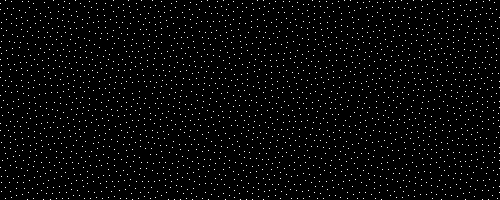
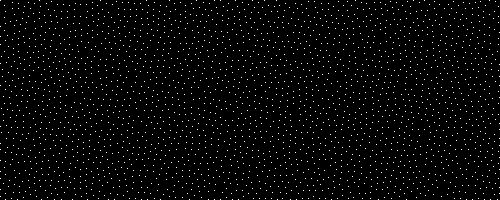
improve point density by fixing angle jitter and angle offset

diff --git a/build/fast-poisson-disk-sampling.min.js b/build/fast-poisson-disk-sampling.min.js
@@ -1,1 +1,1 @@
-(function(f){if(typeof exports==="object"&&typeof module!=="undefined"){module.exports=f()}else if(typeof define==="function"&&define.amd){define([],f)}else{var g;if(typeof window!=="undefined"){g=window}else if(typeof global!=="undefined"){g=global}else if(typeof self!=="undefined"){g=self}else{g=this}g.FastPoissonDiskSampling=f()}})((function(){var define,module,exports;return function(){function r(e,n,t){function o(i,f){if(!n[i]){if(!e[i]){var c="function"==typeof require&&require;if(!f&&c)return c(i,!0);if(u)return u(i,!0);var a=new Error("Cannot find module '"+i+"'");throw a.code="MODULE_NOT_FOUND",a}var p=n[i]={exports:{}};e[i][0].call(p.exports,(function(r){var n=e[i][1][r];return o(n||r)}),p,p.exports,r,e,n,t)}return n[i].exports}for(var u="function"==typeof require&&require,i=0;i<t.length;i++)o(t[i]);return o}return r}()({1:[function(require,module,exports){"use strict";var tinyNDArray=require("./tiny-ndarray");var epsilon=2e-14;var neighbourhood=[[0,0],[0,-1],[-1,0],[1,0],[0,1],[-1,-1],[1,-1],[-1,1],[1,1],[0,-2],[-2,0],[2,0],[0,2],[-1,-2],[1,-2],[-2,-1],[2,-1],[-2,1],[2,1],[-1,2],[1,2]];var neighbourhoodLength=neighbourhood.length;function FastPoissonDiskSampling(options,rng){this.width=options.shape[0];this.height=options.shape[1];this.radius=options.radius||options.minDistance;this.maxTries=Math.max(1,Math.ceil(options.tries||30));this.rng=rng||Math.random;this.squaredRadius=this.radius*this.radius;this.radiusPlusEpsilon=this.radius+epsilon;this.cellSize=this.radius*Math.SQRT1_2;this.angleIncrement=Math.PI*2/this.maxTries;this.angleIncrementOnSuccess=1+epsilon;this.triesIncrementOnSuccess=Math.ceil(this.angleIncrementOnSuccess/this.angleIncrement);this.processList=[];this.samplePoints=[];this.gridShape=[Math.ceil(this.width/this.cellSize),Math.ceil(this.height/this.cellSize)];this.grid=tinyNDArray(this.gridShape)}FastPoissonDiskSampling.prototype.width=null;FastPoissonDiskSampling.prototype.height=null;FastPoissonDiskSampling.prototype.radius=null;FastPoissonDiskSampling.prototype.radiusPlusEpsilon=null;FastPoissonDiskSampling.prototype.squaredRadius=null;FastPoissonDiskSampling.prototype.cellSize=null;FastPoissonDiskSampling.prototype.angleIncrement=null;FastPoissonDiskSampling.prototype.angleIncrementOnSuccess=null;FastPoissonDiskSampling.prototype.triesIncrementOnSuccess=null;FastPoissonDiskSampling.prototype.maxTries=null;FastPoissonDiskSampling.prototype.rng=null;FastPoissonDiskSampling.prototype.processList=null;FastPoissonDiskSampling.prototype.samplePoints=null;FastPoissonDiskSampling.prototype.gridShape=null;FastPoissonDiskSampling.prototype.grid=null;FastPoissonDiskSampling.prototype.addRandomPoint=function(){return this.directAddPoint([this.rng()*this.width,this.rng()*this.height,this.rng()*Math.PI*2,0])};FastPoissonDiskSampling.prototype.addPoint=function(point){var valid=point.length===2&&point[0]>=0&&point[0]<this.width&&point[1]>=0&&point[1]<this.height;return valid?this.directAddPoint([point[0],point[1],this.rng()*Math.PI*2,0]):null};FastPoissonDiskSampling.prototype.directAddPoint=function(point){var coordsOnly=[point[0],point[1]];this.processList.push(point);this.samplePoints.push(coordsOnly);var internalArrayIndex=(point[0]/this.cellSize|0)*this.grid.stride[0]+(point[1]/this.cellSize|0);this.grid.data[internalArrayIndex]=this.samplePoints.length;return coordsOnly};FastPoissonDiskSampling.prototype.inNeighbourhood=function(point){var dimensionNumber=2,stride=this.grid.stride,neighbourIndex,internalArrayIndex,dimension,currentDimensionValue,existingPoint;for(neighbourIndex=0;neighbourIndex<neighbourhoodLength;neighbourIndex++){internalArrayIndex=0;for(dimension=0;dimension<dimensionNumber;dimension++){currentDimensionValue=(point[dimension]/this.cellSize|0)+neighbourhood[neighbourIndex][dimension];if(currentDimensionValue<0||currentDimensionValue>=this.gridShape[dimension]){internalArrayIndex=-1;break}internalArrayIndex+=currentDimensionValue*stride[dimension]}if(internalArrayIndex!==-1&&this.grid.data[internalArrayIndex]!==0){existingPoint=this.samplePoints[this.grid.data[internalArrayIndex]-1];if(Math.pow(point[0]-existingPoint[0],2)+Math.pow(point[1]-existingPoint[1],2)<this.squaredRadius){return true}}}return false};FastPoissonDiskSampling.prototype.next=function(){var tries,currentPoint,currentAngle,newPoint;while(this.processList.length>0){var index=this.processList.length*this.rng()|0;currentPoint=this.processList[index];currentAngle=currentPoint[2];tries=currentPoint[3];if(tries===0){currentAngle=currentAngle+(this.rng()-.5)}for(;tries<this.maxTries;tries++){newPoint=[currentPoint[0]+Math.cos(currentAngle)*this.radiusPlusEpsilon,currentPoint[1]+Math.sin(currentAngle)*this.radiusPlusEpsilon,currentAngle,0];if(newPoint[0]>=0&&newPoint[0]<this.width&&(newPoint[1]>=0&&newPoint[1]<this.height)&&!this.inNeighbourhood(newPoint)){currentPoint[2]=currentAngle+this.angleIncrementOnSuccess+this.rng()*this.angleIncrement;currentPoint[3]=tries+this.triesIncrementOnSuccess;return this.directAddPoint(newPoint)}currentAngle=currentAngle+this.angleIncrement}if(tries>=this.maxTries){const r=this.processList.pop();if(index<this.processList.length){this.processList[index]=r}}}return null};FastPoissonDiskSampling.prototype.fill=function(){if(this.samplePoints.length===0){this.addRandomPoint()}while(this.next()){}return this.samplePoints};FastPoissonDiskSampling.prototype.getAllPoints=function(){return this.samplePoints};FastPoissonDiskSampling.prototype.reset=function(){var gridData=this.grid.data,i;for(i=0;i<gridData.length;i++){gridData[i]=0}this.samplePoints=[];this.processList.length=0};module.exports=FastPoissonDiskSampling},{"./tiny-ndarray":2}],2:[function(require,module,exports){"use strict";function tinyNDArrayOfInteger(gridShape){var dimensions=gridShape.length,totalLength=1,stride=new Array(dimensions),dimension;for(dimension=dimensions;dimension>0;dimension--){stride[dimension-1]=totalLength;totalLength=totalLength*gridShape[dimension-1]}return{stride:stride,data:new Uint32Array(totalLength)}}module.exports=tinyNDArrayOfInteger},{}]},{},[1])(1)}));
+(function(f){if(typeof exports==="object"&&typeof module!=="undefined"){module.exports=f()}else if(typeof define==="function"&&define.amd){define([],f)}else{var g;if(typeof window!=="undefined"){g=window}else if(typeof global!=="undefined"){g=global}else if(typeof self!=="undefined"){g=self}else{g=this}g.FastPoissonDiskSampling=f()}})((function(){var define,module,exports;return function(){function r(e,n,t){function o(i,f){if(!n[i]){if(!e[i]){var c="function"==typeof require&&require;if(!f&&c)return c(i,!0);if(u)return u(i,!0);var a=new Error("Cannot find module '"+i+"'");throw a.code="MODULE_NOT_FOUND",a}var p=n[i]={exports:{}};e[i][0].call(p.exports,(function(r){var n=e[i][1][r];return o(n||r)}),p,p.exports,r,e,n,t)}return n[i].exports}for(var u="function"==typeof require&&require,i=0;i<t.length;i++)o(t[i]);return o}return r}()({1:[function(require,module,exports){"use strict";var tinyNDArray=require("./tiny-ndarray");var epsilon=2e-14;var piDiv3=Math.PI/3;var neighbourhood=[[0,0],[0,-1],[-1,0],[1,0],[0,1],[-1,-1],[1,-1],[-1,1],[1,1],[0,-2],[-2,0],[2,0],[0,2],[-1,-2],[1,-2],[-2,-1],[2,-1],[-2,1],[2,1],[-1,2],[1,2]];var neighbourhoodLength=neighbourhood.length;function FastPoissonDiskSampling(options,rng){this.width=options.shape[0];this.height=options.shape[1];this.radius=options.radius||options.minDistance;this.maxTries=Math.max(3,Math.ceil(options.tries||30));this.rng=rng||Math.random;this.squaredRadius=this.radius*this.radius;this.radiusPlusEpsilon=this.radius+epsilon;this.cellSize=this.radius*Math.SQRT1_2;this.angleIncrement=Math.PI*2/this.maxTries;this.angleIncrementOnSuccess=piDiv3+epsilon;this.triesIncrementOnSuccess=Math.ceil(this.angleIncrementOnSuccess/this.angleIncrement);this.processList=[];this.samplePoints=[];this.gridShape=[Math.ceil(this.width/this.cellSize),Math.ceil(this.height/this.cellSize)];this.grid=tinyNDArray(this.gridShape)}FastPoissonDiskSampling.prototype.width=null;FastPoissonDiskSampling.prototype.height=null;FastPoissonDiskSampling.prototype.radius=null;FastPoissonDiskSampling.prototype.radiusPlusEpsilon=null;FastPoissonDiskSampling.prototype.squaredRadius=null;FastPoissonDiskSampling.prototype.cellSize=null;FastPoissonDiskSampling.prototype.angleIncrement=null;FastPoissonDiskSampling.prototype.angleIncrementOnSuccess=null;FastPoissonDiskSampling.prototype.triesIncrementOnSuccess=null;FastPoissonDiskSampling.prototype.maxTries=null;FastPoissonDiskSampling.prototype.rng=null;FastPoissonDiskSampling.prototype.processList=null;FastPoissonDiskSampling.prototype.samplePoints=null;FastPoissonDiskSampling.prototype.gridShape=null;FastPoissonDiskSampling.prototype.grid=null;FastPoissonDiskSampling.prototype.addRandomPoint=function(){return this.directAddPoint([this.rng()*this.width,this.rng()*this.height,this.rng()*Math.PI*2,0])};FastPoissonDiskSampling.prototype.addPoint=function(point){var valid=point.length===2&&point[0]>=0&&point[0]<this.width&&point[1]>=0&&point[1]<this.height;return valid?this.directAddPoint([point[0],point[1],this.rng()*Math.PI*2,0]):null};FastPoissonDiskSampling.prototype.directAddPoint=function(point){var coordsOnly=[point[0],point[1]];this.processList.push(point);this.samplePoints.push(coordsOnly);var internalArrayIndex=(point[0]/this.cellSize|0)*this.grid.stride[0]+(point[1]/this.cellSize|0);this.grid.data[internalArrayIndex]=this.samplePoints.length;return coordsOnly};FastPoissonDiskSampling.prototype.inNeighbourhood=function(point){var dimensionNumber=2,stride=this.grid.stride,neighbourIndex,internalArrayIndex,dimension,currentDimensionValue,existingPoint;for(neighbourIndex=0;neighbourIndex<neighbourhoodLength;neighbourIndex++){internalArrayIndex=0;for(dimension=0;dimension<dimensionNumber;dimension++){currentDimensionValue=(point[dimension]/this.cellSize|0)+neighbourhood[neighbourIndex][dimension];if(currentDimensionValue<0||currentDimensionValue>=this.gridShape[dimension]){internalArrayIndex=-1;break}internalArrayIndex+=currentDimensionValue*stride[dimension]}if(internalArrayIndex!==-1&&this.grid.data[internalArrayIndex]!==0){existingPoint=this.samplePoints[this.grid.data[internalArrayIndex]-1];if(Math.pow(point[0]-existingPoint[0],2)+Math.pow(point[1]-existingPoint[1],2)<this.squaredRadius){return true}}}return false};FastPoissonDiskSampling.prototype.next=function(){var tries,currentPoint,currentAngle,newPoint;while(this.processList.length>0){var index=this.processList.length*this.rng()|0;currentPoint=this.processList[index];currentAngle=currentPoint[2];tries=currentPoint[3];if(tries===0){currentAngle=currentAngle+(this.rng()-.5)*piDiv3*4}for(;tries<this.maxTries;tries++){newPoint=[currentPoint[0]+Math.cos(currentAngle)*this.radiusPlusEpsilon,currentPoint[1]+Math.sin(currentAngle)*this.radiusPlusEpsilon,currentAngle,0];if(newPoint[0]>=0&&newPoint[0]<this.width&&(newPoint[1]>=0&&newPoint[1]<this.height)&&!this.inNeighbourhood(newPoint)){currentPoint[2]=currentAngle+this.angleIncrementOnSuccess+this.rng()*this.angleIncrement;currentPoint[3]=tries+this.triesIncrementOnSuccess;return this.directAddPoint(newPoint)}currentAngle=currentAngle+this.angleIncrement}if(tries>=this.maxTries){const r=this.processList.pop();if(index<this.processList.length){this.processList[index]=r}}}return null};FastPoissonDiskSampling.prototype.fill=function(){if(this.samplePoints.length===0){this.addRandomPoint()}while(this.next()){}return this.samplePoints};FastPoissonDiskSampling.prototype.getAllPoints=function(){return this.samplePoints};FastPoissonDiskSampling.prototype.reset=function(){var gridData=this.grid.data,i;for(i=0;i<gridData.length;i++){gridData[i]=0}this.samplePoints=[];this.processList.length=0};module.exports=FastPoissonDiskSampling},{"./tiny-ndarray":2}],2:[function(require,module,exports){"use strict";function tinyNDArrayOfInteger(gridShape){var dimensions=gridShape.length,totalLength=1,stride=new Array(dimensions),dimension;for(dimension=dimensions;dimension>0;dimension--){stride[dimension-1]=totalLength;totalLength=totalLength*gridShape[dimension-1]}return{stride:stride,data:new Uint32Array(totalLength)}}module.exports=tinyNDArrayOfInteger},{}]},{},[1])(1)}));

diff --git a/build/fast-poisson-disk-sampling.js b/build/fast-poisson-disk-sampling.js
@@ -4,6 +4,7 @@
 var tinyNDArray = require('./tiny-ndarray');
 
 var epsilon = 2e-14;
+var piDiv3 = Math.PI / 3;
 
 var neighbourhood = [
     [ 0, 0 ],   [ 0, -1 ],  [ -1, 0 ],
@@ -30,7 +31,7 @@ function FastPoissonDiskSampling (options, rng) {
     this.width = options.shape[0];
     this.height = options.shape[1];
     this.radius = options.radius || options.minDistance;
-    this.maxTries = Math.max(1, Math.ceil(options.tries || 30));
+    this.maxTries = Math.max(3, Math.ceil(options.tries || 30));
 
     this.rng = rng || Math.random;
 
@@ -39,7 +40,7 @@ function FastPoissonDiskSampling (options, rng) {
     this.cellSize = this.radius * Math.SQRT1_2;
 
     this.angleIncrement = Math.PI * 2 / this.maxTries;
-    this.angleIncrementOnSuccess = 1 + epsilon;
+    this.angleIncrementOnSuccess = piDiv3 + epsilon;
     this.triesIncrementOnSuccess = Math.ceil(this.angleIncrementOnSuccess / this.angleIncrement);
 
     this.processList = [];
@@ -180,7 +181,7 @@ FastPoissonDiskSampling.prototype.next = function () {
         tries = currentPoint[3];
 
         if (tries === 0) {
-            currentAngle = currentAngle + (this.rng() - 0.5);
+            currentAngle = currentAngle + (this.rng() - 0.5) * piDiv3 * 4;
         }
 
         for (; tries < this.maxTries; tries++) {

diff --git a/src/fast-poisson-disk-sampling.js b/src/fast-poisson-disk-sampling.js
@@ -3,6 +3,7 @@
 var tinyNDArray = require('./tiny-ndarray');
 
 var epsilon = 2e-14;
+var piDiv3 = Math.PI / 3;
 
 var neighbourhood = [
     [ 0, 0 ],   [ 0, -1 ],  [ -1, 0 ],
@@ -29,7 +30,7 @@ function FastPoissonDiskSampling (options, rng) {
     this.width = options.shape[0];
     this.height = options.shape[1];
     this.radius = options.radius || options.minDistance;
-    this.maxTries = Math.max(1, Math.ceil(options.tries || 30));
+    this.maxTries = Math.max(3, Math.ceil(options.tries || 30));
 
     this.rng = rng || Math.random;
 
@@ -38,7 +39,7 @@ function FastPoissonDiskSampling (options, rng) {
     this.cellSize = this.radius * Math.SQRT1_2;
 
     this.angleIncrement = Math.PI * 2 / this.maxTries;
-    this.angleIncrementOnSuccess = 1 + epsilon;
+    this.angleIncrementOnSuccess = piDiv3 + epsilon;
     this.triesIncrementOnSuccess = Math.ceil(this.angleIncrementOnSuccess / this.angleIncrement);
 
     this.processList = [];
@@ -179,7 +180,7 @@ FastPoissonDiskSampling.prototype.next = function () {
         tries = currentPoint[3];
 
         if (tries === 0) {
-            currentAngle = currentAngle + (this.rng() - 0.5);
+            currentAngle = currentAngle + (this.rng() - 0.5) * piDiv3 * 4;
         }
 
         for (; tries < this.maxTries; tries++) {

diff --git a/README.md b/README.md
@@ -21,7 +21,7 @@ yarn add fast-2d-poisson-disk-sampling
 A compiled version for web browsers is also available on a CDN:
 
 ```html
-<script src="https://cdn.jsdelivr.net/gh/kchapelier/fast-2d-poisson-disk-sampling@1.0.0/build/fast-poisson-disk-sampling.min.js"></script>
+<script src="https://cdn.jsdelivr.net/gh/kchapelier/fast-2d-poisson-disk-sampling@1.0.1/build/fast-poisson-disk-sampling.min.js"></script>
 ```
 
 ## Features
@@ -139,6 +139,10 @@ Reinitialize the grid as well as the internal state.
 When doing multiple samplings in the same grid, it is preferable to reuse the same instance of PoissonDiskSampling instead of creating a new one for each sampling.
 
 ## History
+
+### [1.0.1](https://github.com/kchapelier/fast-2d-poisson-disk-sampling/tree/1.0.1) (2020-05-24) :
+
+- Tweaks to improve the result (higher point density).
 
 ### [1.0.0](https://github.com/kchapelier/fast-2d-poisson-disk-sampling/tree/1.0.0) (2020-05-24) :
 
